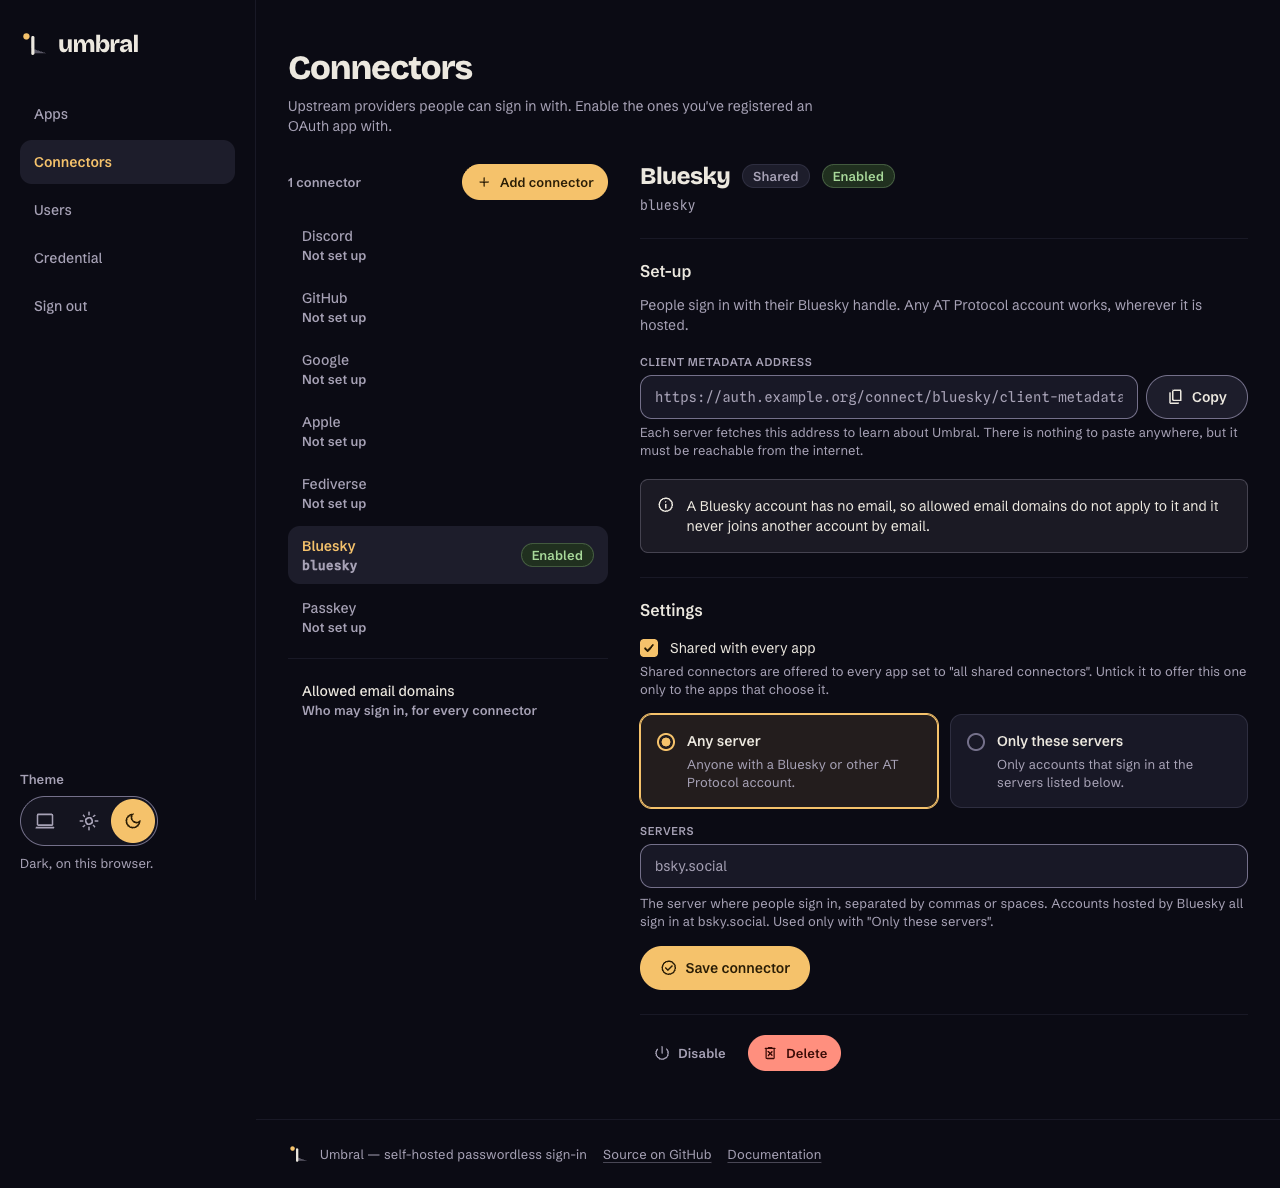
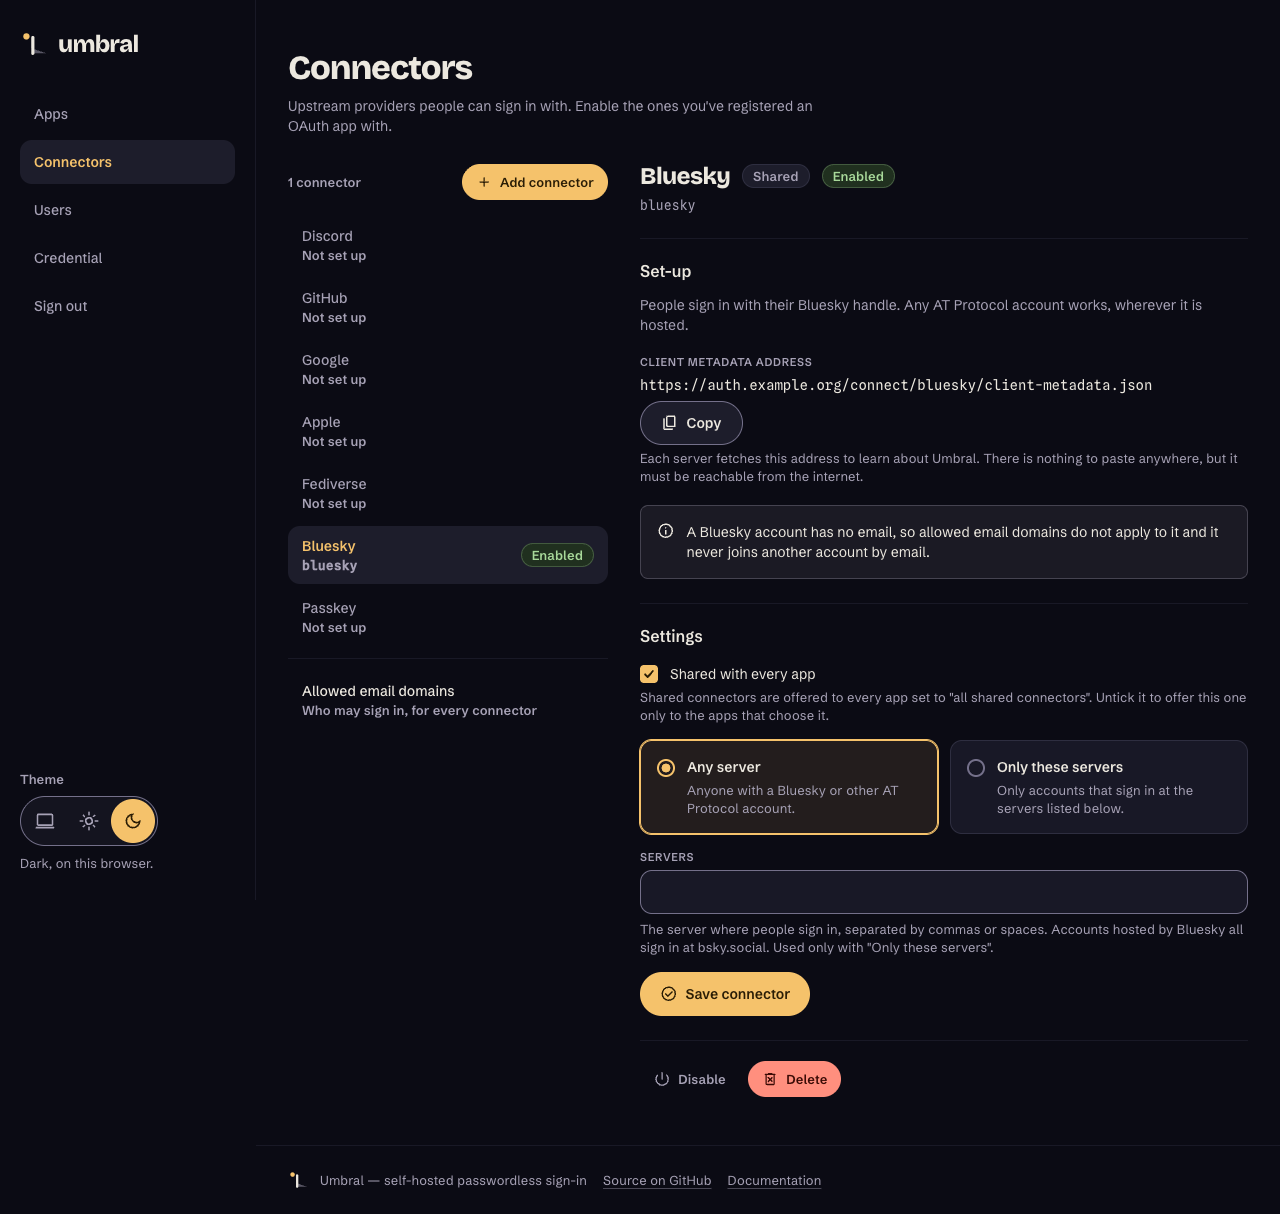
review(b5ky): three captures retaken after the design nits

diff --git a/.alta/reviews/2026-11-11-bluesky/captures.md b/.alta/reviews/2026-11-11-bluesky/captures.md
@@ -6,6 +6,8 @@ and 360, themes dark and light, unless the table says otherwise. Overflow is `sc
 read on the page right before each shot: **no capture overflows horizontally** (the numbers are in
 `capture.mjs`'s output; every one was `scrollWidth == innerWidth`).
 
+**Retaken 2026-11-12 after the design-review changes (a4bd928; build of ca31ec0):** `connectors-any-https-1280-dark.png` (metadata address now wrapping mono text with Copy under it), `connectors-any-1280-dark.png` and `connectors-list-1280-light.png` (Servers field without a placeholder; the `retake.mjs` script took them). Items 1 and 2 under "What looked off" are therefore fixed; the other 1280/360 pane captures were not retaken and still show the old field.
+
 ## Instances
 
 | Instance | Origin | Flags | Used for |
